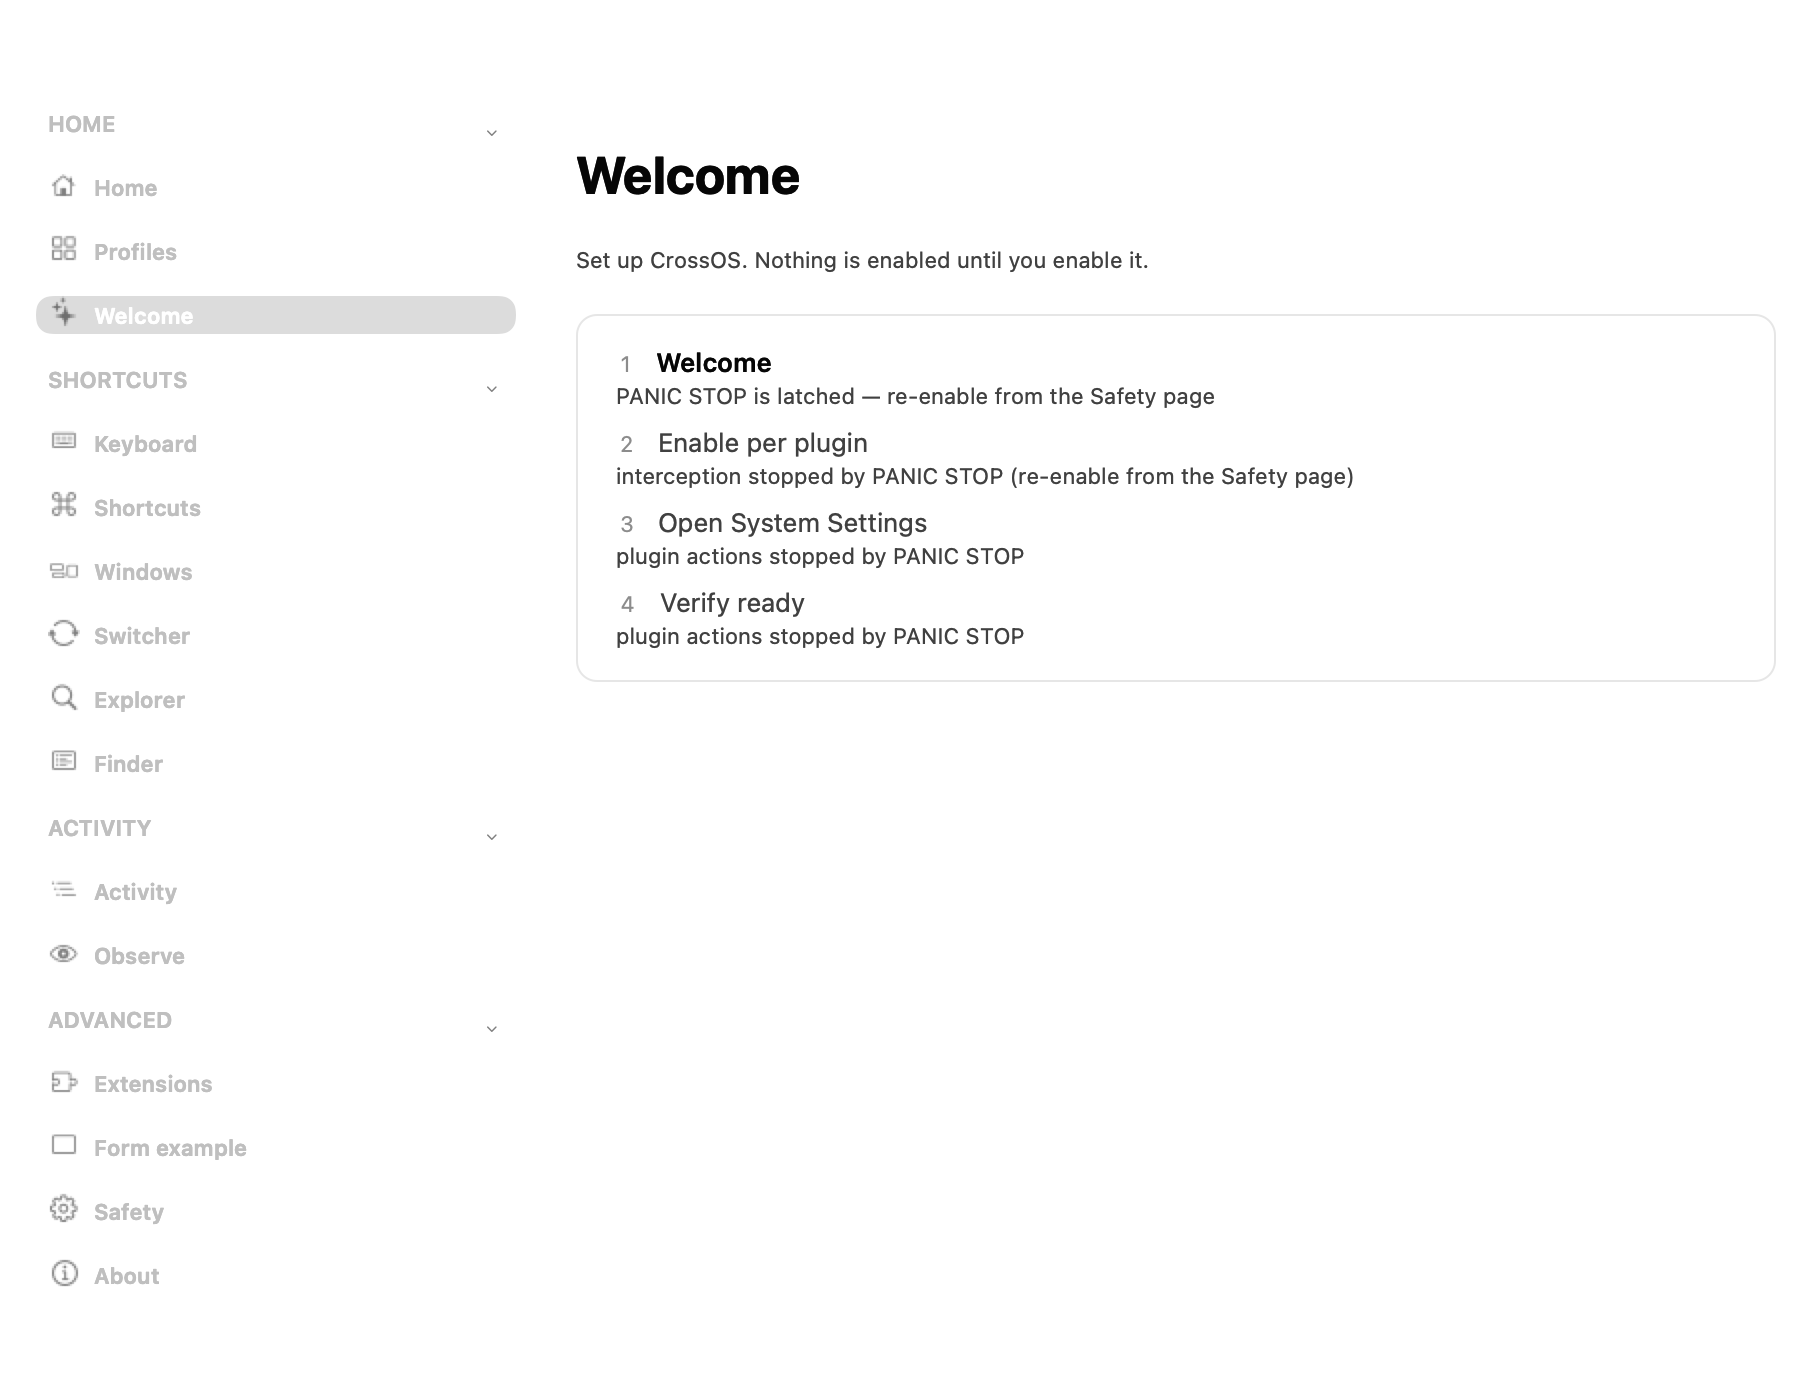
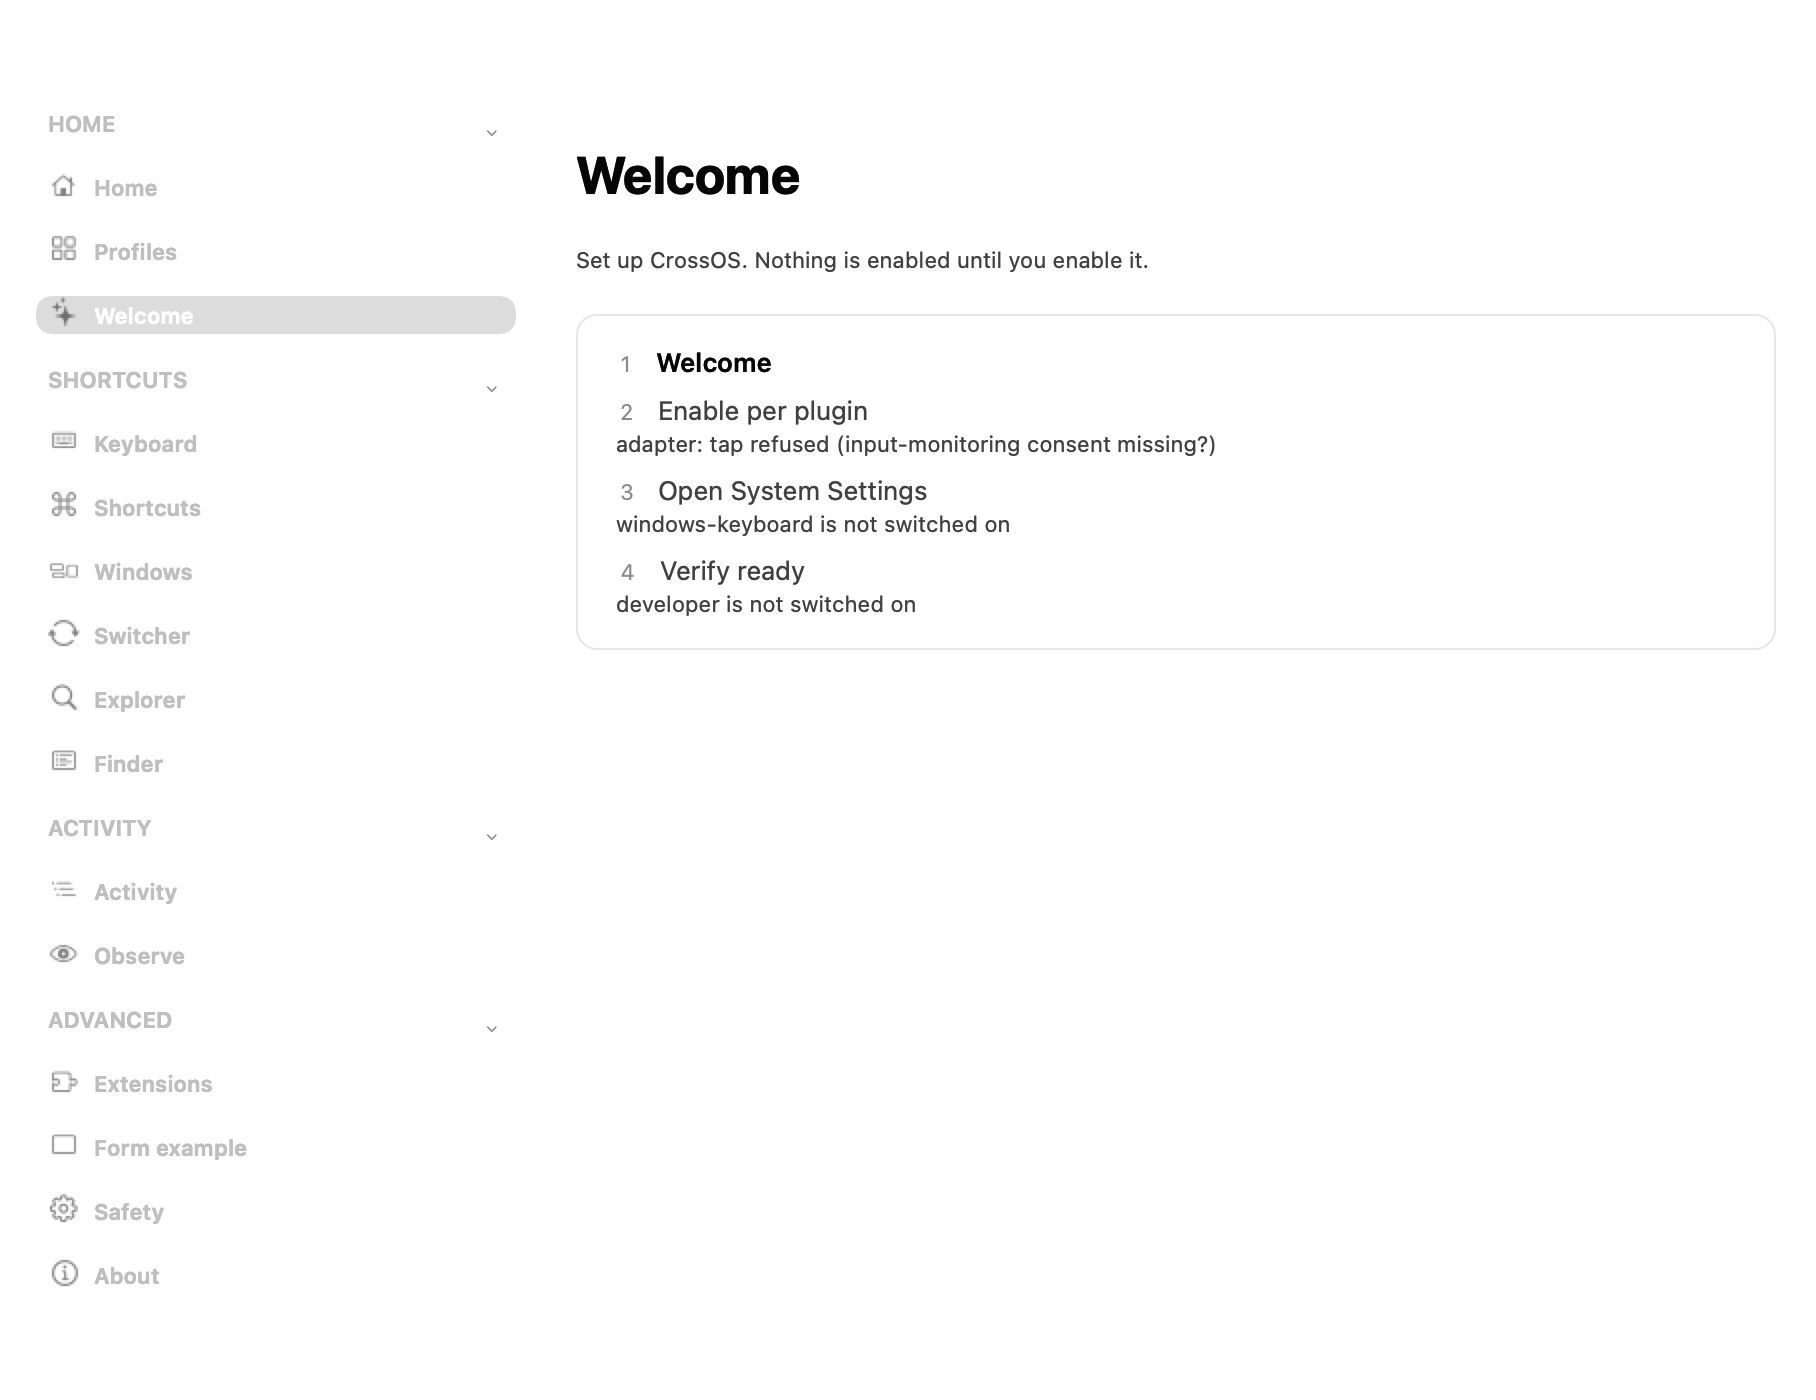
docs: the screenshots show the daemon's state, and which state
The pictures are of a running app, so they are of whatever the daemon
happened to be doing. `--click-test` presses PANIC STOP and then Reset
Everything and does not put the machine back — it verifies destructive
controls by causing them — so screenshots taken straight after a run show
`core.home` reporting that interception is off and `core.safety`
reporting what it removed.

That is why three of the fifteen files change after a `--click-test` run
and nothing else does, and it is now written down with the resume
command rather than left for the next person to work out from a diff.

Changed region(s): [[0.3392, 0.2764, 0.7401, 0.4914]]

diff --git a/docs/screenshots/README.md b/docs/screenshots/README.md
@@ -62,6 +62,30 @@ statement about it in a commit message was made about a picture it was not
 in. **A person looking at the real window is the only way to check it** —
 `./scripts/run.sh`.
 
+## These show the daemon's state at capture time
+
+The pictures are of a running app, so they are of whatever that daemon
+happened to be doing. `--click-test` presses PANIC STOP and then Reset
+Everything and does not put the machine back — it verifies destructive
+controls by causing them — so screenshots taken straight after a run show
+`core.home` saying interception is off and `core.safety` reporting what
+it removed.
+
+To capture the normal state, resume first:
+
+```sh
+python3 - <<'EOF'
+import json, socket
+s = socket.socket(socket.AF_UNIX); s.settimeout(5)
+s.connect("~/Library/Application Support/CrossOS/crossos.sock".replace("~", __import__("os").path.expanduser("~")))
+s.send(b'{"jsonrpc":"2.0","method":"safety.resume","id":1}\n'); s.recv(2048)
+EOF
+./scripts/screenshots.sh
+```
+
+That is why three of the files change after a `--click-test` run and do
+not change after anything else.
+
 ## Width varies with the page, and is pinned
 
 Two consecutive renders of the same build are byte-identical, so the pictures
